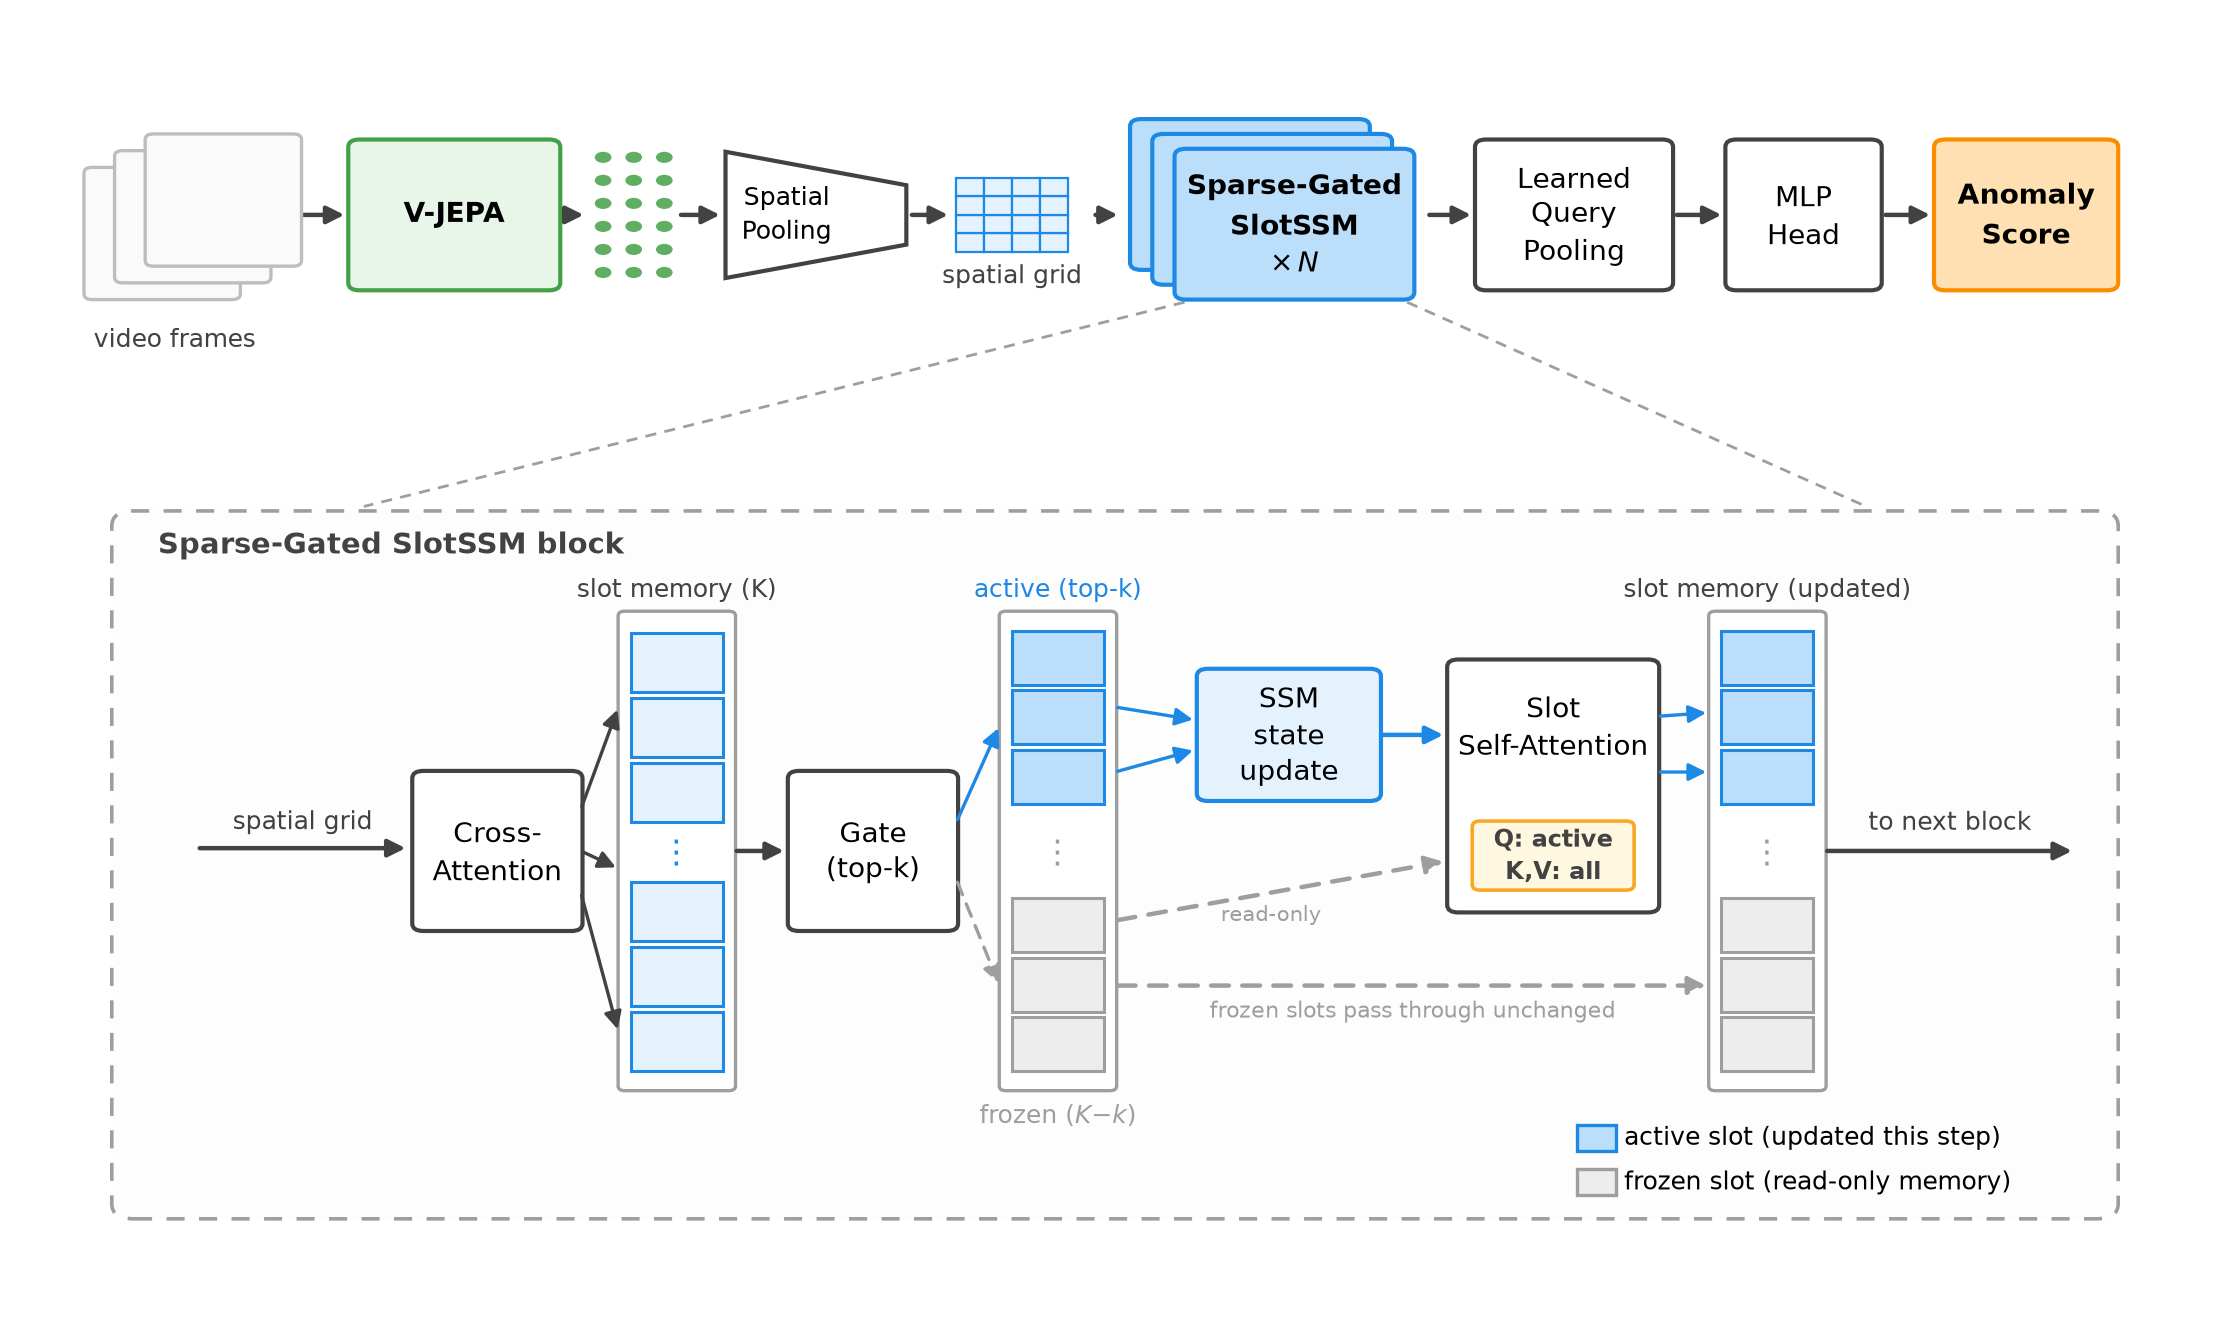
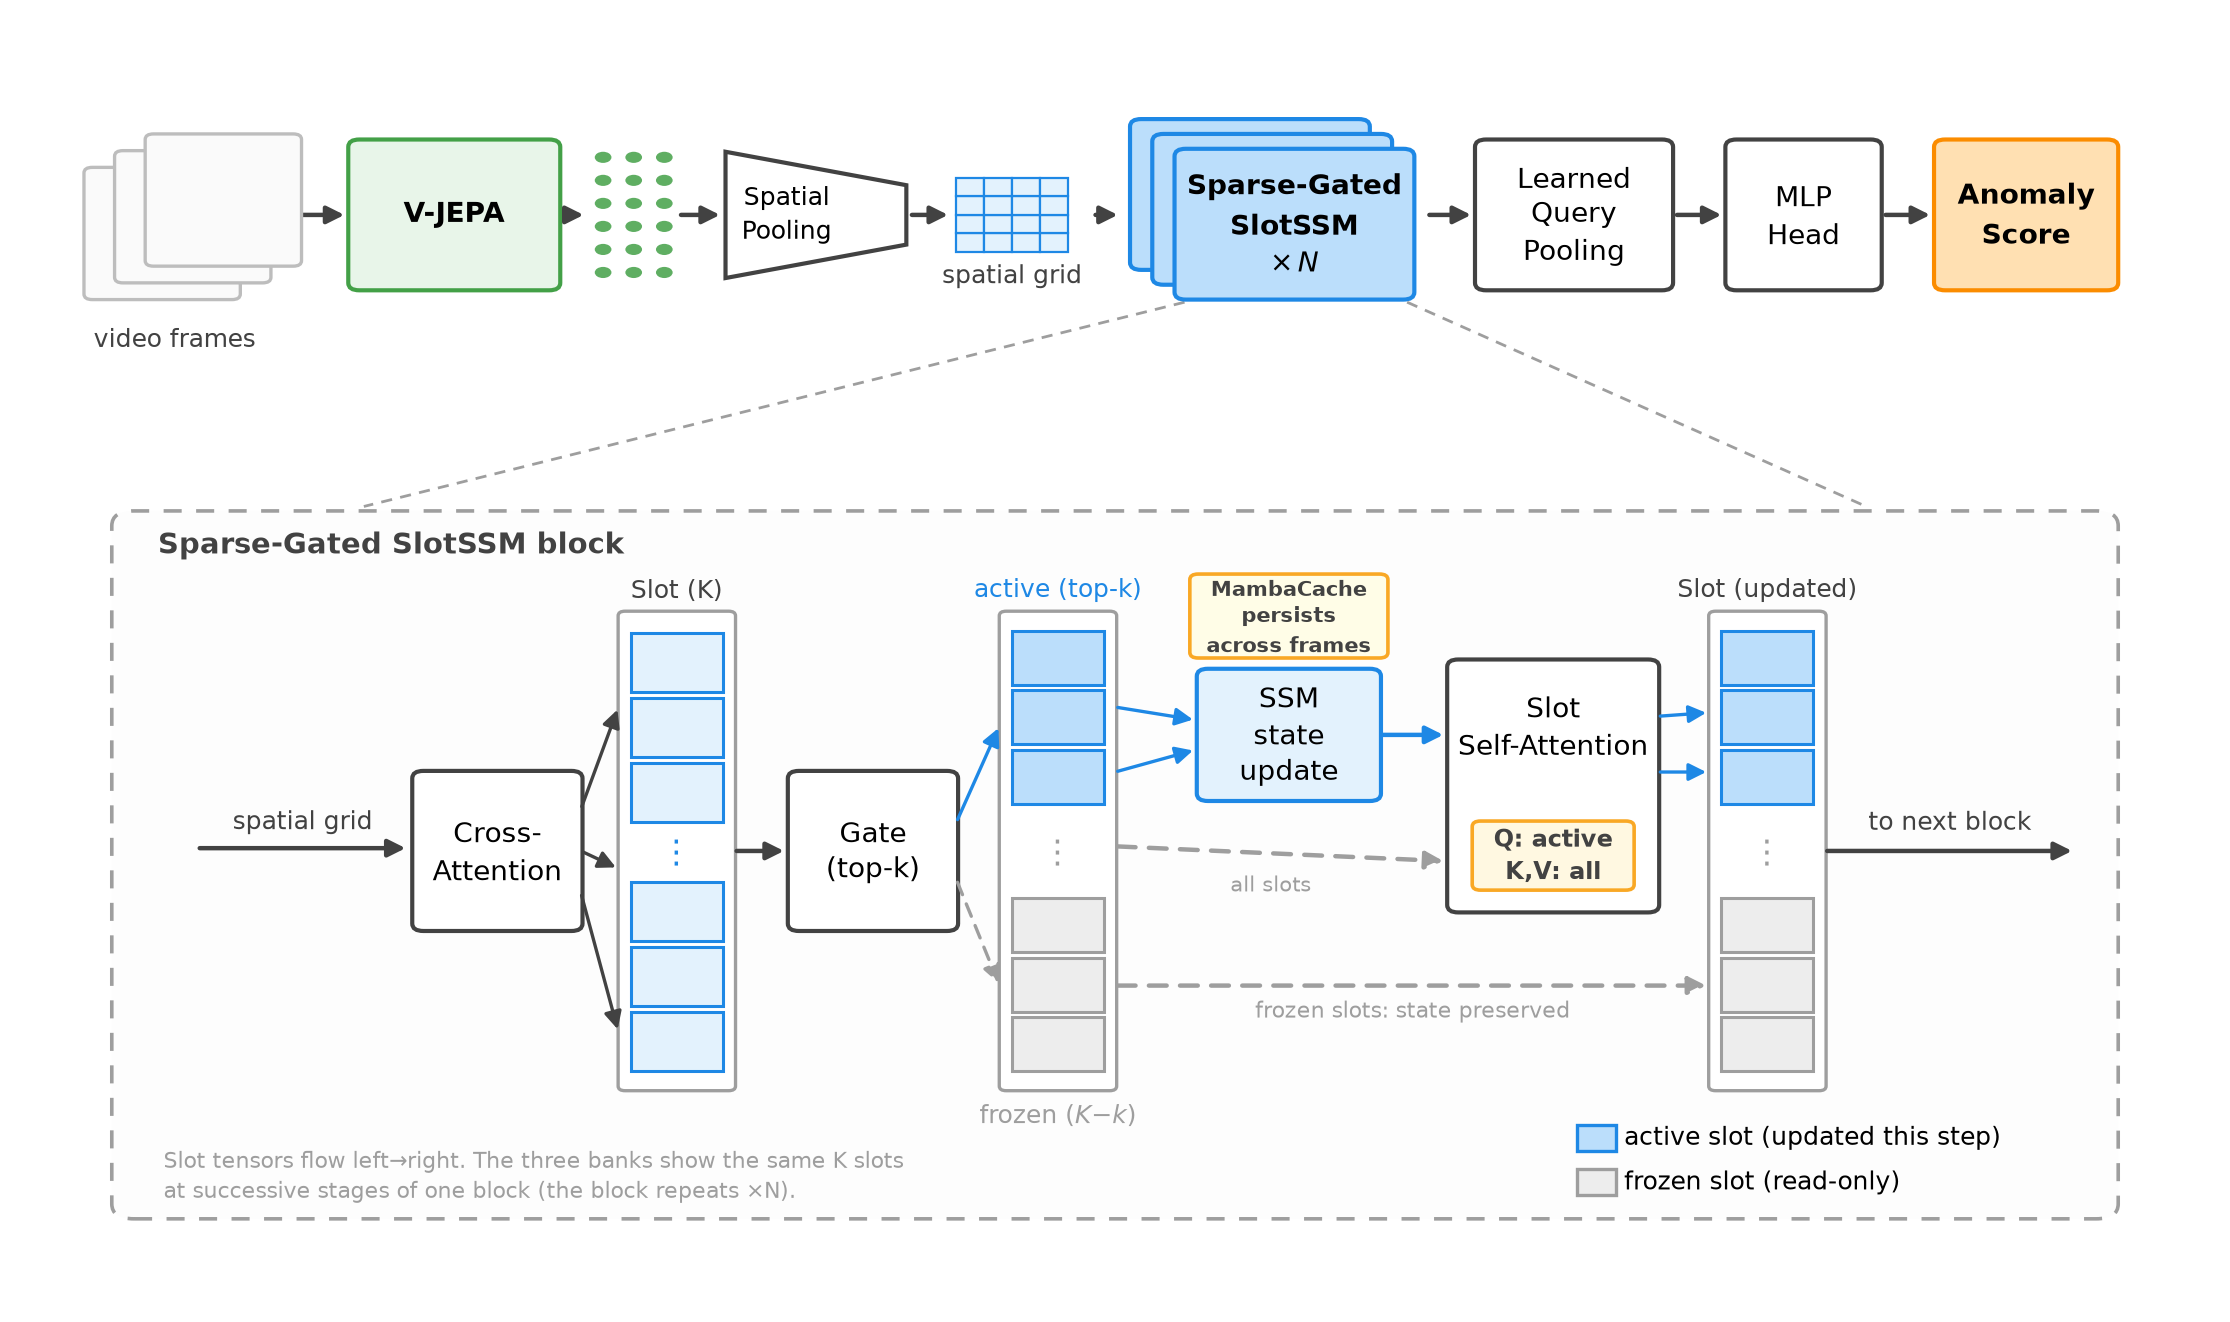
update architecture

diff --git a/README.md b/README.md
@@ -81,9 +81,9 @@ SG-SlotSSM introduces **hard-sparse activation gating** into the SlotSSM archite
 
 | Config | Temporal Model | Type | Pre-proj | Temporal | Post-cls | **Trainable (Non-encoder)** |
 |--------|---------------|:----:|:--------:|:--------:|:--------:|:-------------:|
-| `vjepa_linear_probe.yaml` | Per-frame MLP | Encoder Only | 28.37M | — | 1.05M | **29.4M** |
-| `vjepa_v1.yaml` | 3-layer LSTM | Recurrent | 28.37M | 25.19M | 1.05M | **54.6M** |
-| `vjepa_mamba.yaml` | Mamba-2 × 3 | SSM | 28.37M | 19.81M | 1.05M | **49.2M** |
+| `vjepa_linear_probe.yaml` | Per-frame MLP | Encoder Only | 28.3M | — | 1.05M | **29.4M** |
+| `vjepa_v1.yaml` | 3-layer LSTM | Recurrent | 28.3M | 25.19M | 1.05M | **54.6M** |
+| `vjepa_mamba.yaml` | Mamba-2 × 3 | SSM | 28.3M | 19.81M | 1.05M | **49.2M** |
 | `vjepa_slotssm.yaml` | SlotSSM | Slot SSM | — | 16.89M | 1.58M | **18.5M** |
 | `vjepa_sparse_slotssm.yaml` | SG-SlotSSM | Slot SSM | — | 16.90M | 1.58M | **18.5M** |
 
